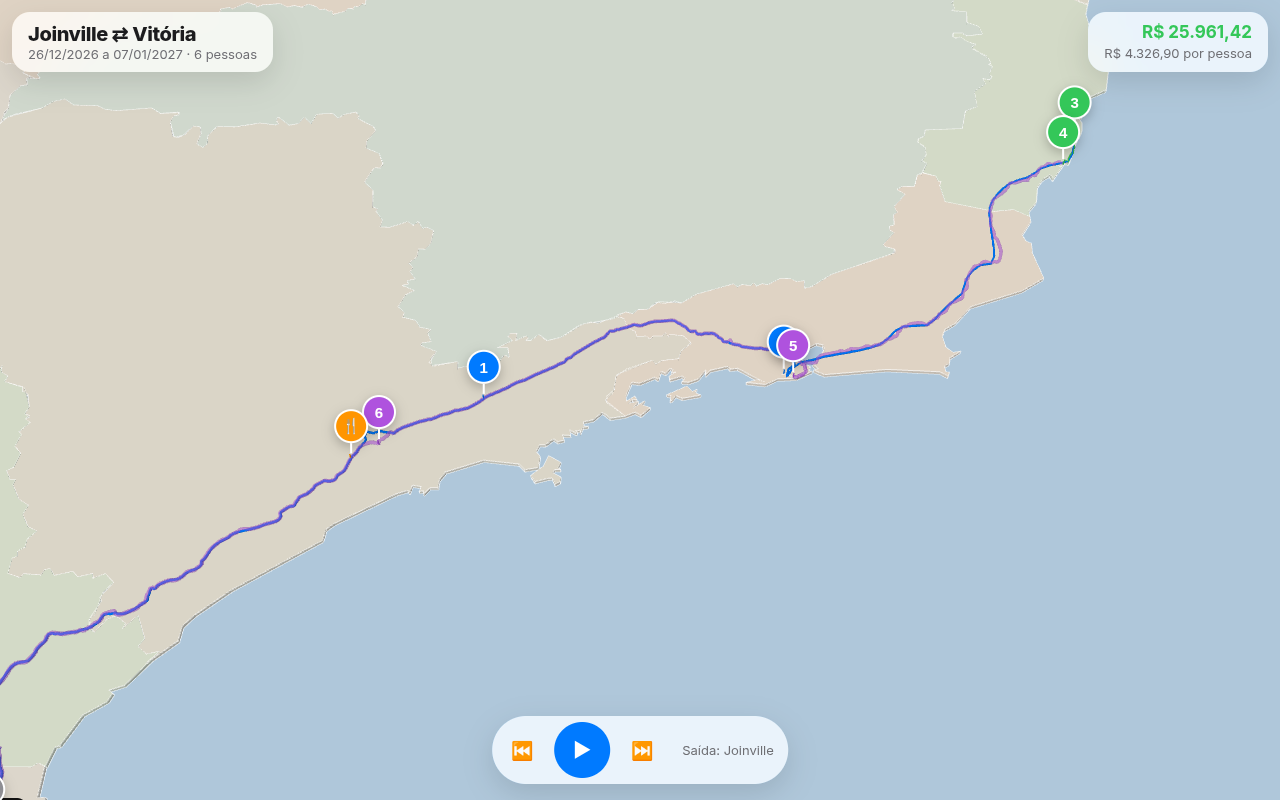
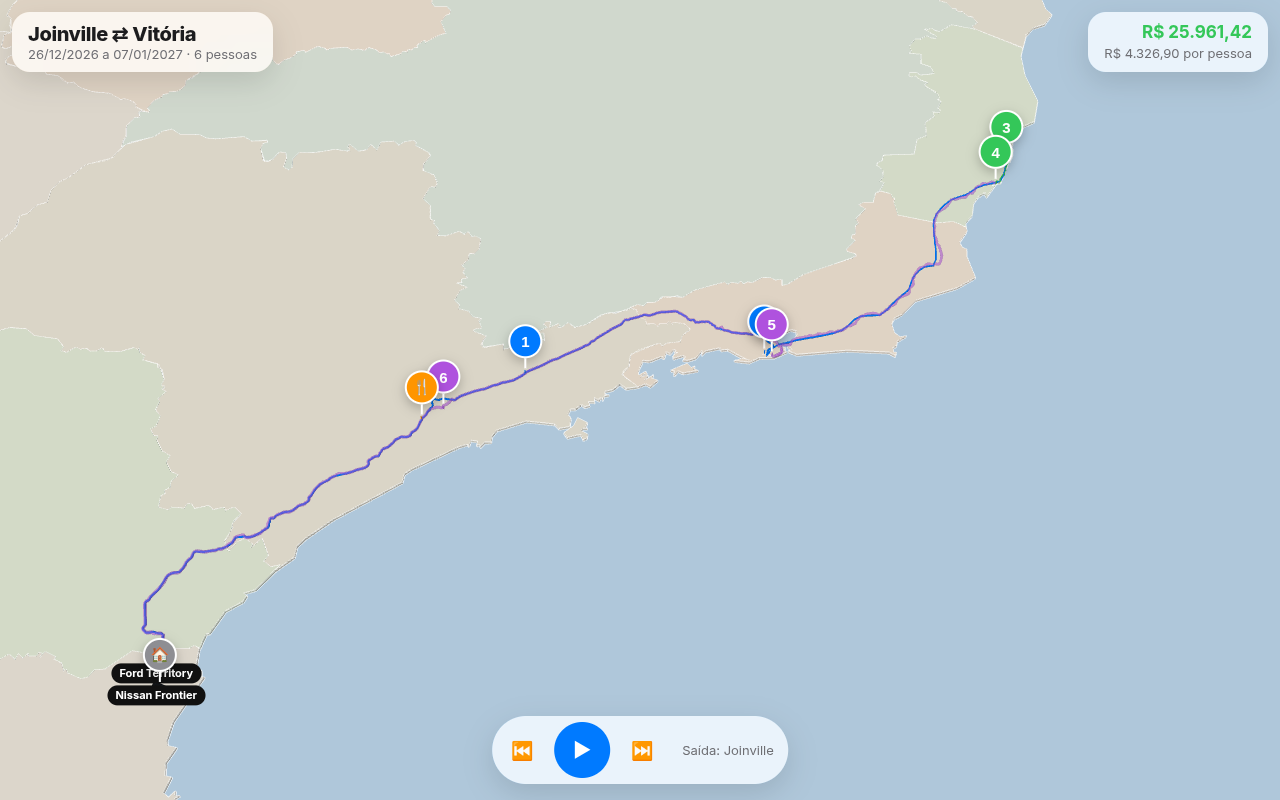
V2: enquadramento inicial

Changed region(s): [[0.0, 0.0, 0.875, 1.0], [0.0312, 0.7812, 0.0625, 0.8125], [0.0, 0.8125, 0.0312, 0.8438]]

diff --git a/v2/index.html b/v2/index.html
@@ -109,7 +109,7 @@ document.getElementById('next').onclick=()=>go(Math.min(cur+1,stopD.length-1));
 document.getElementById('prev').onclick=()=>{playing=false;cur=Math.max(0,cur-(dist>stopD[cur]+.01?0:1));dist=stopD[cur];place(dist);ui();if(cur)openCard(cur)};
 let lunchShown=false;
 // camera
-function overview(){const c=innerWidth/innerHeight<.9?P(-23.7,-45.1,0):P(-23.2,-44.6,0);const tf=Math.tan(20*Math.PI/180),a=innerWidth/innerHeight;const port=a<.9;const d=port?Math.max(56/tf,24/(tf*a)):Math.max(30/tf,40/(tf*a))*1.02;const az=port?-0.8:0;ctr.target.copy(c);cam.position.copy(c).add(new THREE.Vector3(Math.sin(az)*.57,.82,Math.cos(az)*.57).multiplyScalar(d));follow=false}
+function overview(){const c=innerWidth/innerHeight<.9?P(-23.7,-45.1,0):P(-23.5,-44.7,0);const tf=Math.tan(20*Math.PI/180),a=innerWidth/innerHeight;const port=a<.9;const d=port?Math.max(56/tf,24/(tf*a)):Math.max(36/tf,46/(tf*a))*1.05;const az=port?-0.8:0;ctr.target.copy(c);cam.position.copy(c).add(new THREE.Vector3(Math.sin(az)*.57,.82,Math.cos(az)*.57).multiplyScalar(d));follow=false}
 
 let follow=false;overview();const clock=new THREE.Clock();const tmp=new THREE.Vector3();
 function proj(v,el){tmp.copy(v).project(cam);const vis=tmp.z<1&&Math.abs(tmp.x)<1.2&&Math.abs(tmp.y)<1.2;el.style.display=vis?'':'none';if(vis)el.style.transform=`translate(${(tmp.x*.5+.5)*innerWidth}px,${(-tmp.y*.5+.5)*innerHeight}px) translate(-50%,-100%)`}
